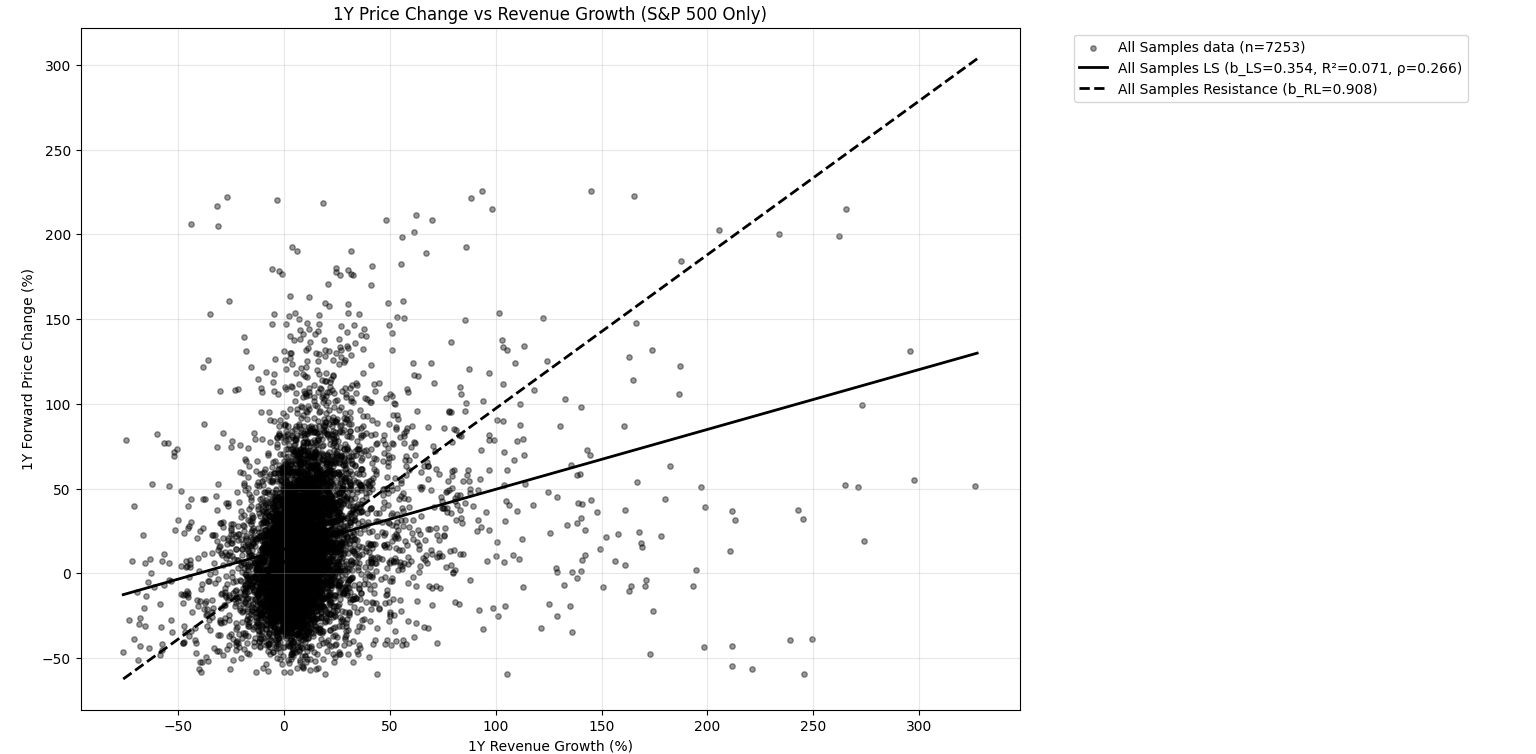
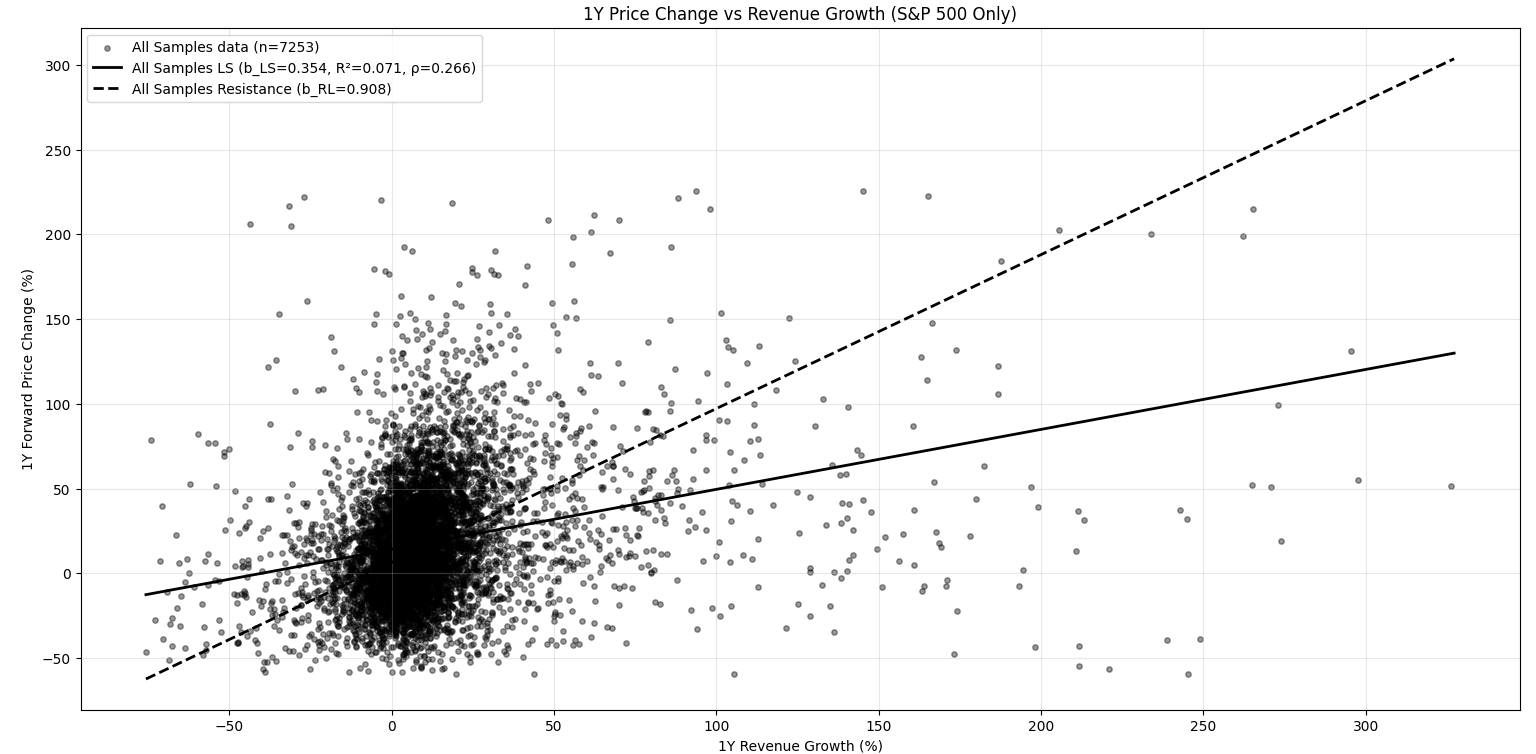
update 1 year nasdaq100 graphs

diff --git a/written/stats_paper.tex b/written/stats_paper.tex
@@ -30,6 +30,8 @@
 \usepackage{booktabs}
 \usepackage{amsmath}
 \usepackage{placeins}
+\usepackage{graphicx}
+\usepackage{stfloats}      % or: \usepackage{dblfloatfix}
 
 % If the title and author information does not fit in the area allocated, uncomment the following
 %
@@ -196,6 +198,13 @@ For the 1-year horizon, mega-caps achieve $R^2 = 0.102$ with a Pearson correlati
 
 In contrast, micro-caps and mid-caps show weaker but still statistically significant relationships. Mid-caps consistently exhibit $R^2$ values around 0.008-0.011 across horizons, while micro-caps show declining explanatory power from 0.025 (1Y) to 0.005 (3Y).
 
+\begin{figure*}[!htbp]
+\centering
+\includegraphics[width=\textwidth]{images/all_horizons_all_stocks_single_plot.png}
+\caption{Revenue growth vs. price changes across time horizons (6M, 1Y, 2Y, 3Y) and market cap tiers. Mega-caps show the strongest relationships, followed by micro-caps and mid-caps.}
+\label{fig:revenue-by-cap}
+\end{figure*}
+
 \subsection{Index-Specific Analysis}
 
 Analysis of major market indices reveals enhanced predictive power within these curated sets of high-quality companies. Table~\ref{tab:index-results} presents results for S\&P 500 constituents, which demonstrate substantially stronger revenue-price relationships than the broader market.
@@ -220,6 +229,27 @@ Horizon & Mega-caps $R^2$ & Mega-caps $\rho$ & S\&P $R^2$ & S\&P $\rho$ \\
 \FloatBarrier
 
 Notably, S\&P 500 mega-caps at the 3-year horizon achieve $R^2 = 0.351$, indicating that revenue growth explains over one-third of future price variation—a remarkably strong relationship in equity markets.
+
+\begin{figure*}[!htbp]
+\centering
+\includegraphics[width=\textwidth]{images/1_year_sp500_plot.png}
+\caption{S\&P 500 constituents: 1-year price change vs. revenue growth. Index constituents show stronger fundamental-price relationships than the broader market.}
+\label{fig:sp500}
+\end{figure*}
+
+\begin{figure*}[!htbp]
+\centering
+\includegraphics[width=\textwidth]{images/1_year_nasdaq100_plot.png}
+\caption{NASDAQ-100 constituents: 1-year price change vs. revenue growth. Technology-focused index shows robust revenue-price relationships.}
+\label{fig:nasdaq100}
+\end{figure*}
+
+\begin{figure*}[!htbp]
+\centering
+\includegraphics[width=\textwidth]{images/1_year_dow30_plot.png}
+\caption{Dow Jones 30 constituents: 1-year price change vs. revenue growth. Blue-chip stocks demonstrate strong fundamental-based pricing relationships.}
+\label{fig:dow30}
+\end{figure*}
 
 \subsection{Statistical Significance and Hypothesis Testing}
 
@@ -246,6 +276,13 @@ Micro-caps & $< 10^{-20}$ & $< 10^{-8}$ & $< 10^{-3}$ \\
 \subsection{Confidence Interval Analysis}
 
 Figure~\ref{fig:confidence-intervals} presents 95\% confidence intervals for the slope coefficients across market cap tiers and time horizons. All confidence intervals exclude zero, confirming statistical significance. The confidence intervals are notably tighter for mega-caps, reflecting both larger effect sizes and more stable relationships within this tier.
+
+\begin{figure*}[!htbp]
+\centering
+\includegraphics[width=\textwidth]{images/all_horizons_confidence_intervals.png}
+\caption{95\% confidence intervals for slope coefficients across market cap tiers and time horizons. Error bars show standard errors for least squares estimates.}
+\label{fig:confidence-intervals}
+\end{figure*}
 
 The slope coefficients indicate that a 1 percentage point increase in revenue growth is associated with approximately 0.18 percentage point increase in 1-year forward price growth for mega-caps, compared to 0.14 percentage points for micro-caps and 0.16 percentage points for mid-caps.
 

diff --git a/linear_regression/lr_by_market_cap_robust.py b/linear_regression/lr_by_market_cap_robust.py
@@ -428,7 +428,7 @@ def create_regression_plot(results, horizon_label, analysis_mode_name, x_axis_la
     ax.set_xlabel(x_axis_label)
     y_label = f"{horizon_label} Forward Log Price Change" if args.use_log_price_change else f"{horizon_label} Forward Price Change (%)"
     ax.set_ylabel(y_label)
-    ax.legend(bbox_to_anchor=(1.05, 1), loc='upper left')
+    ax.legend(loc="upper left")
     ax.grid(alpha=0.3)
     plt.tight_layout()
     
